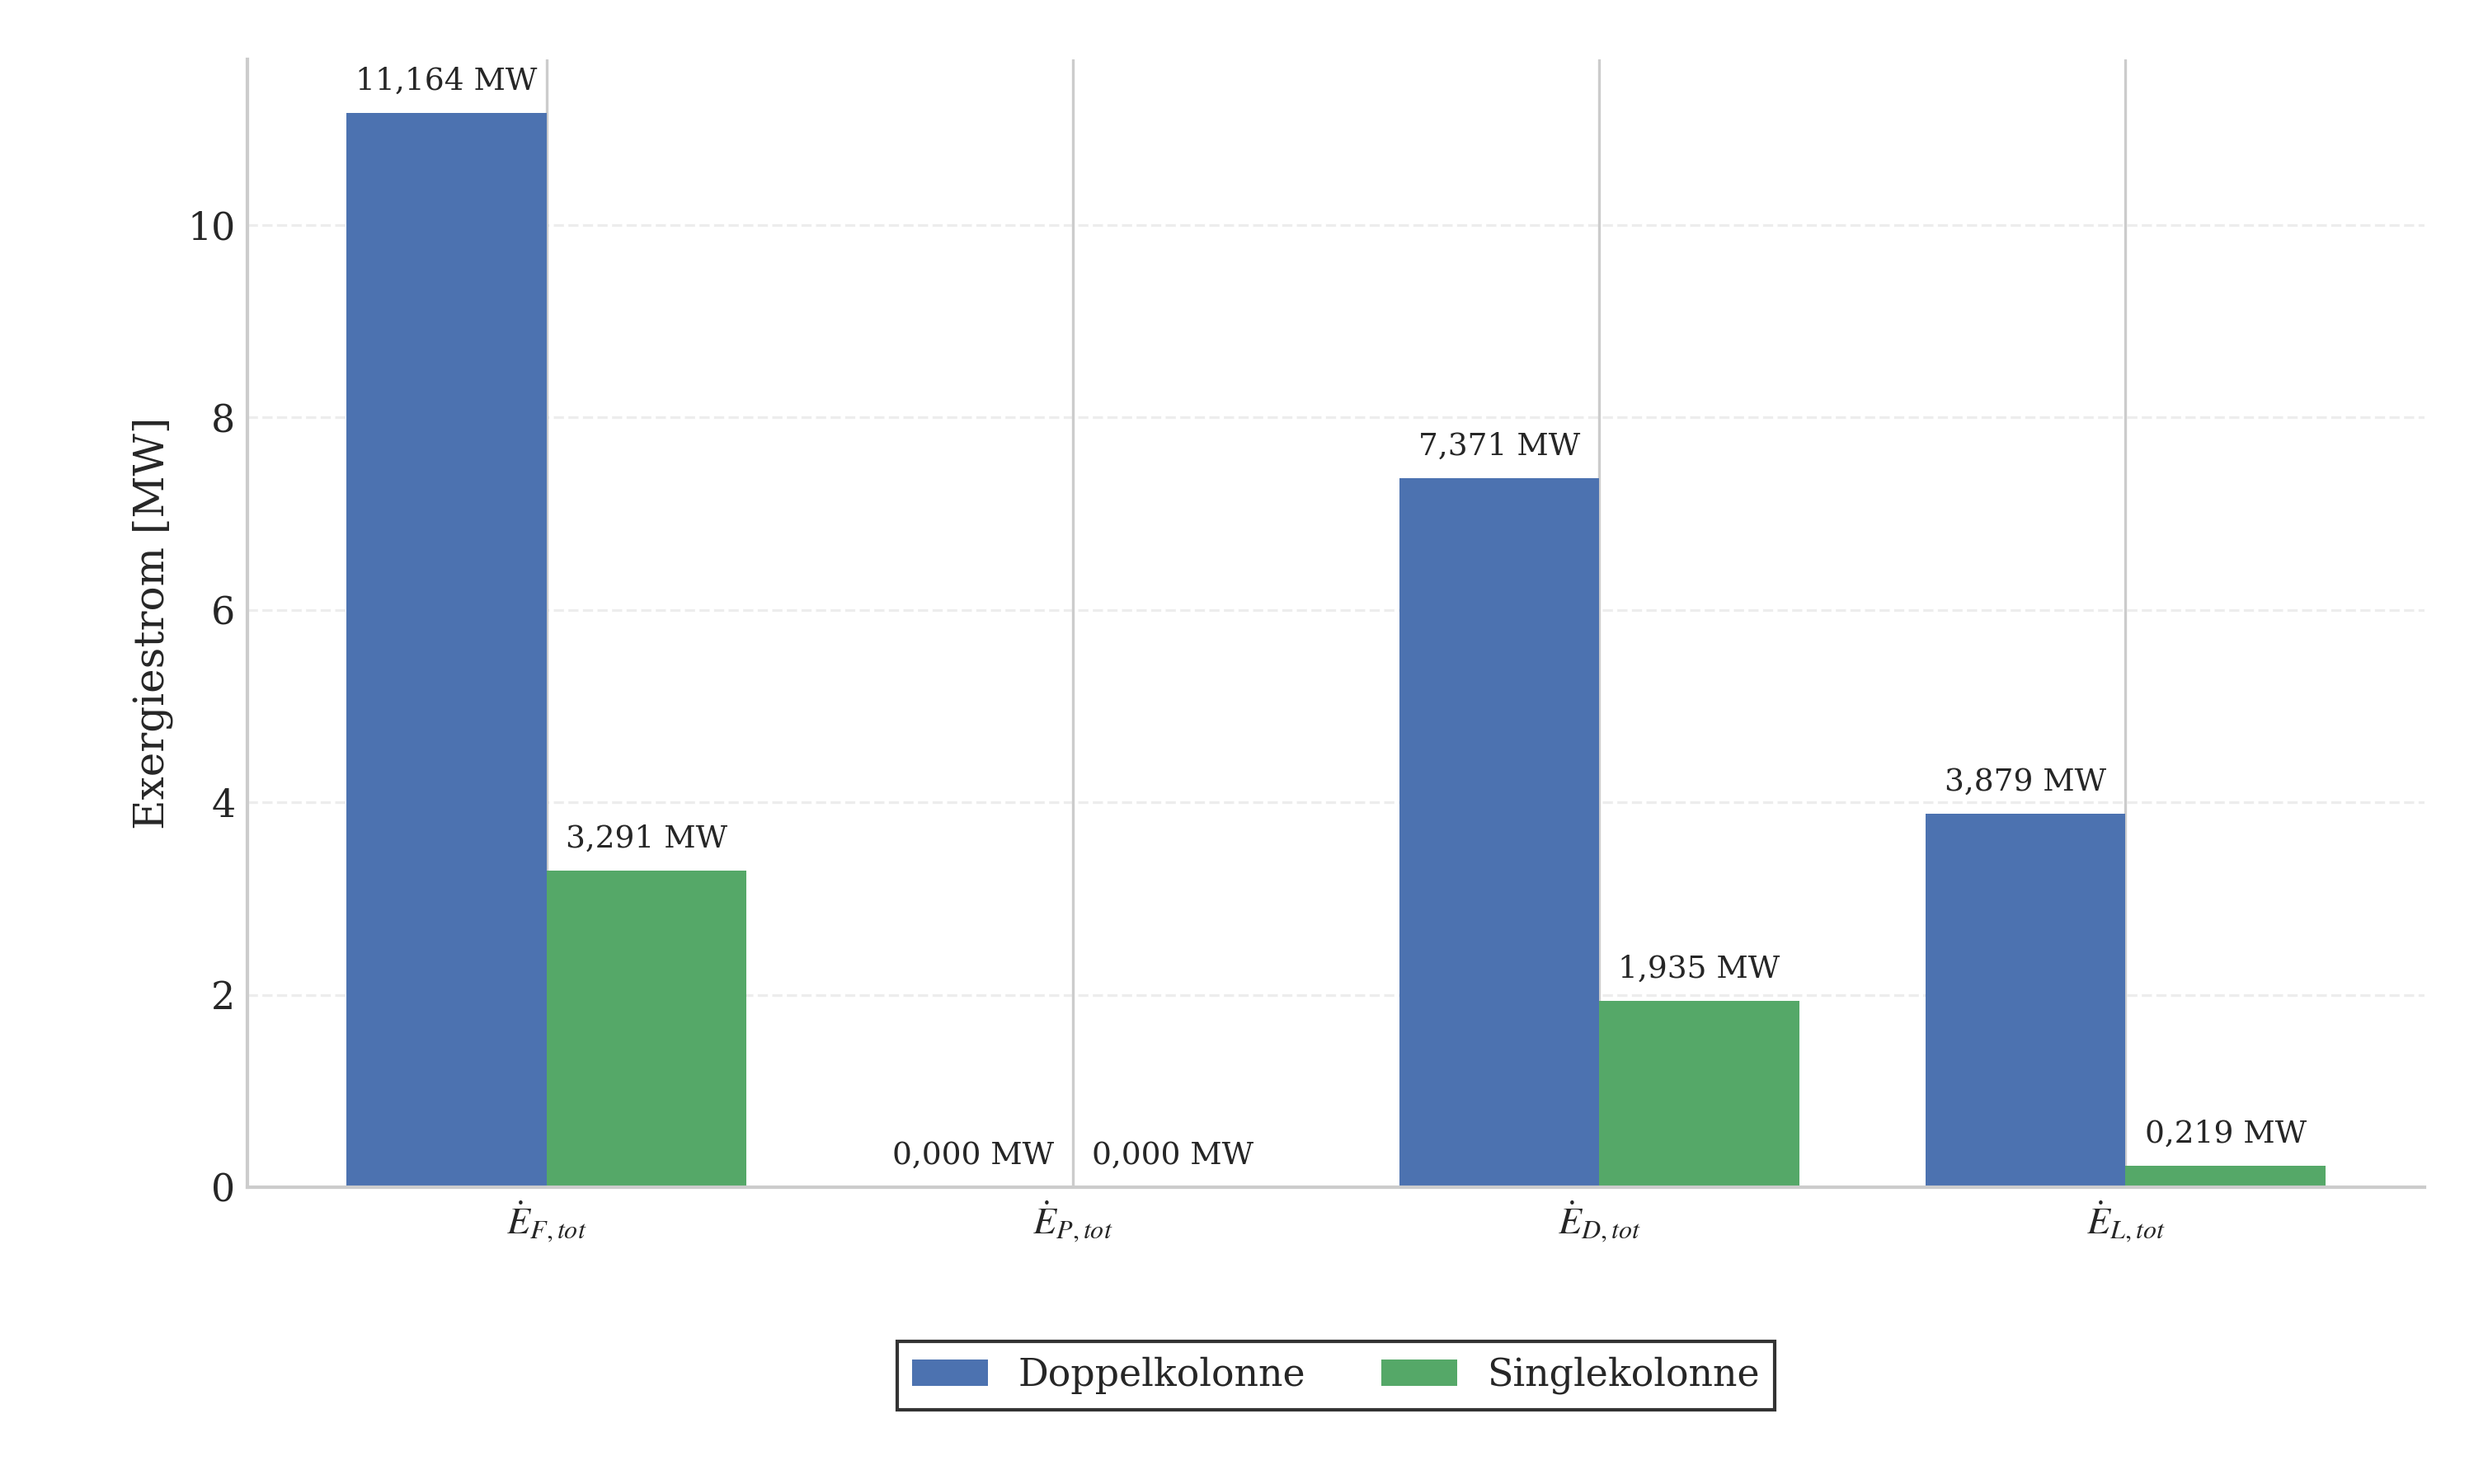
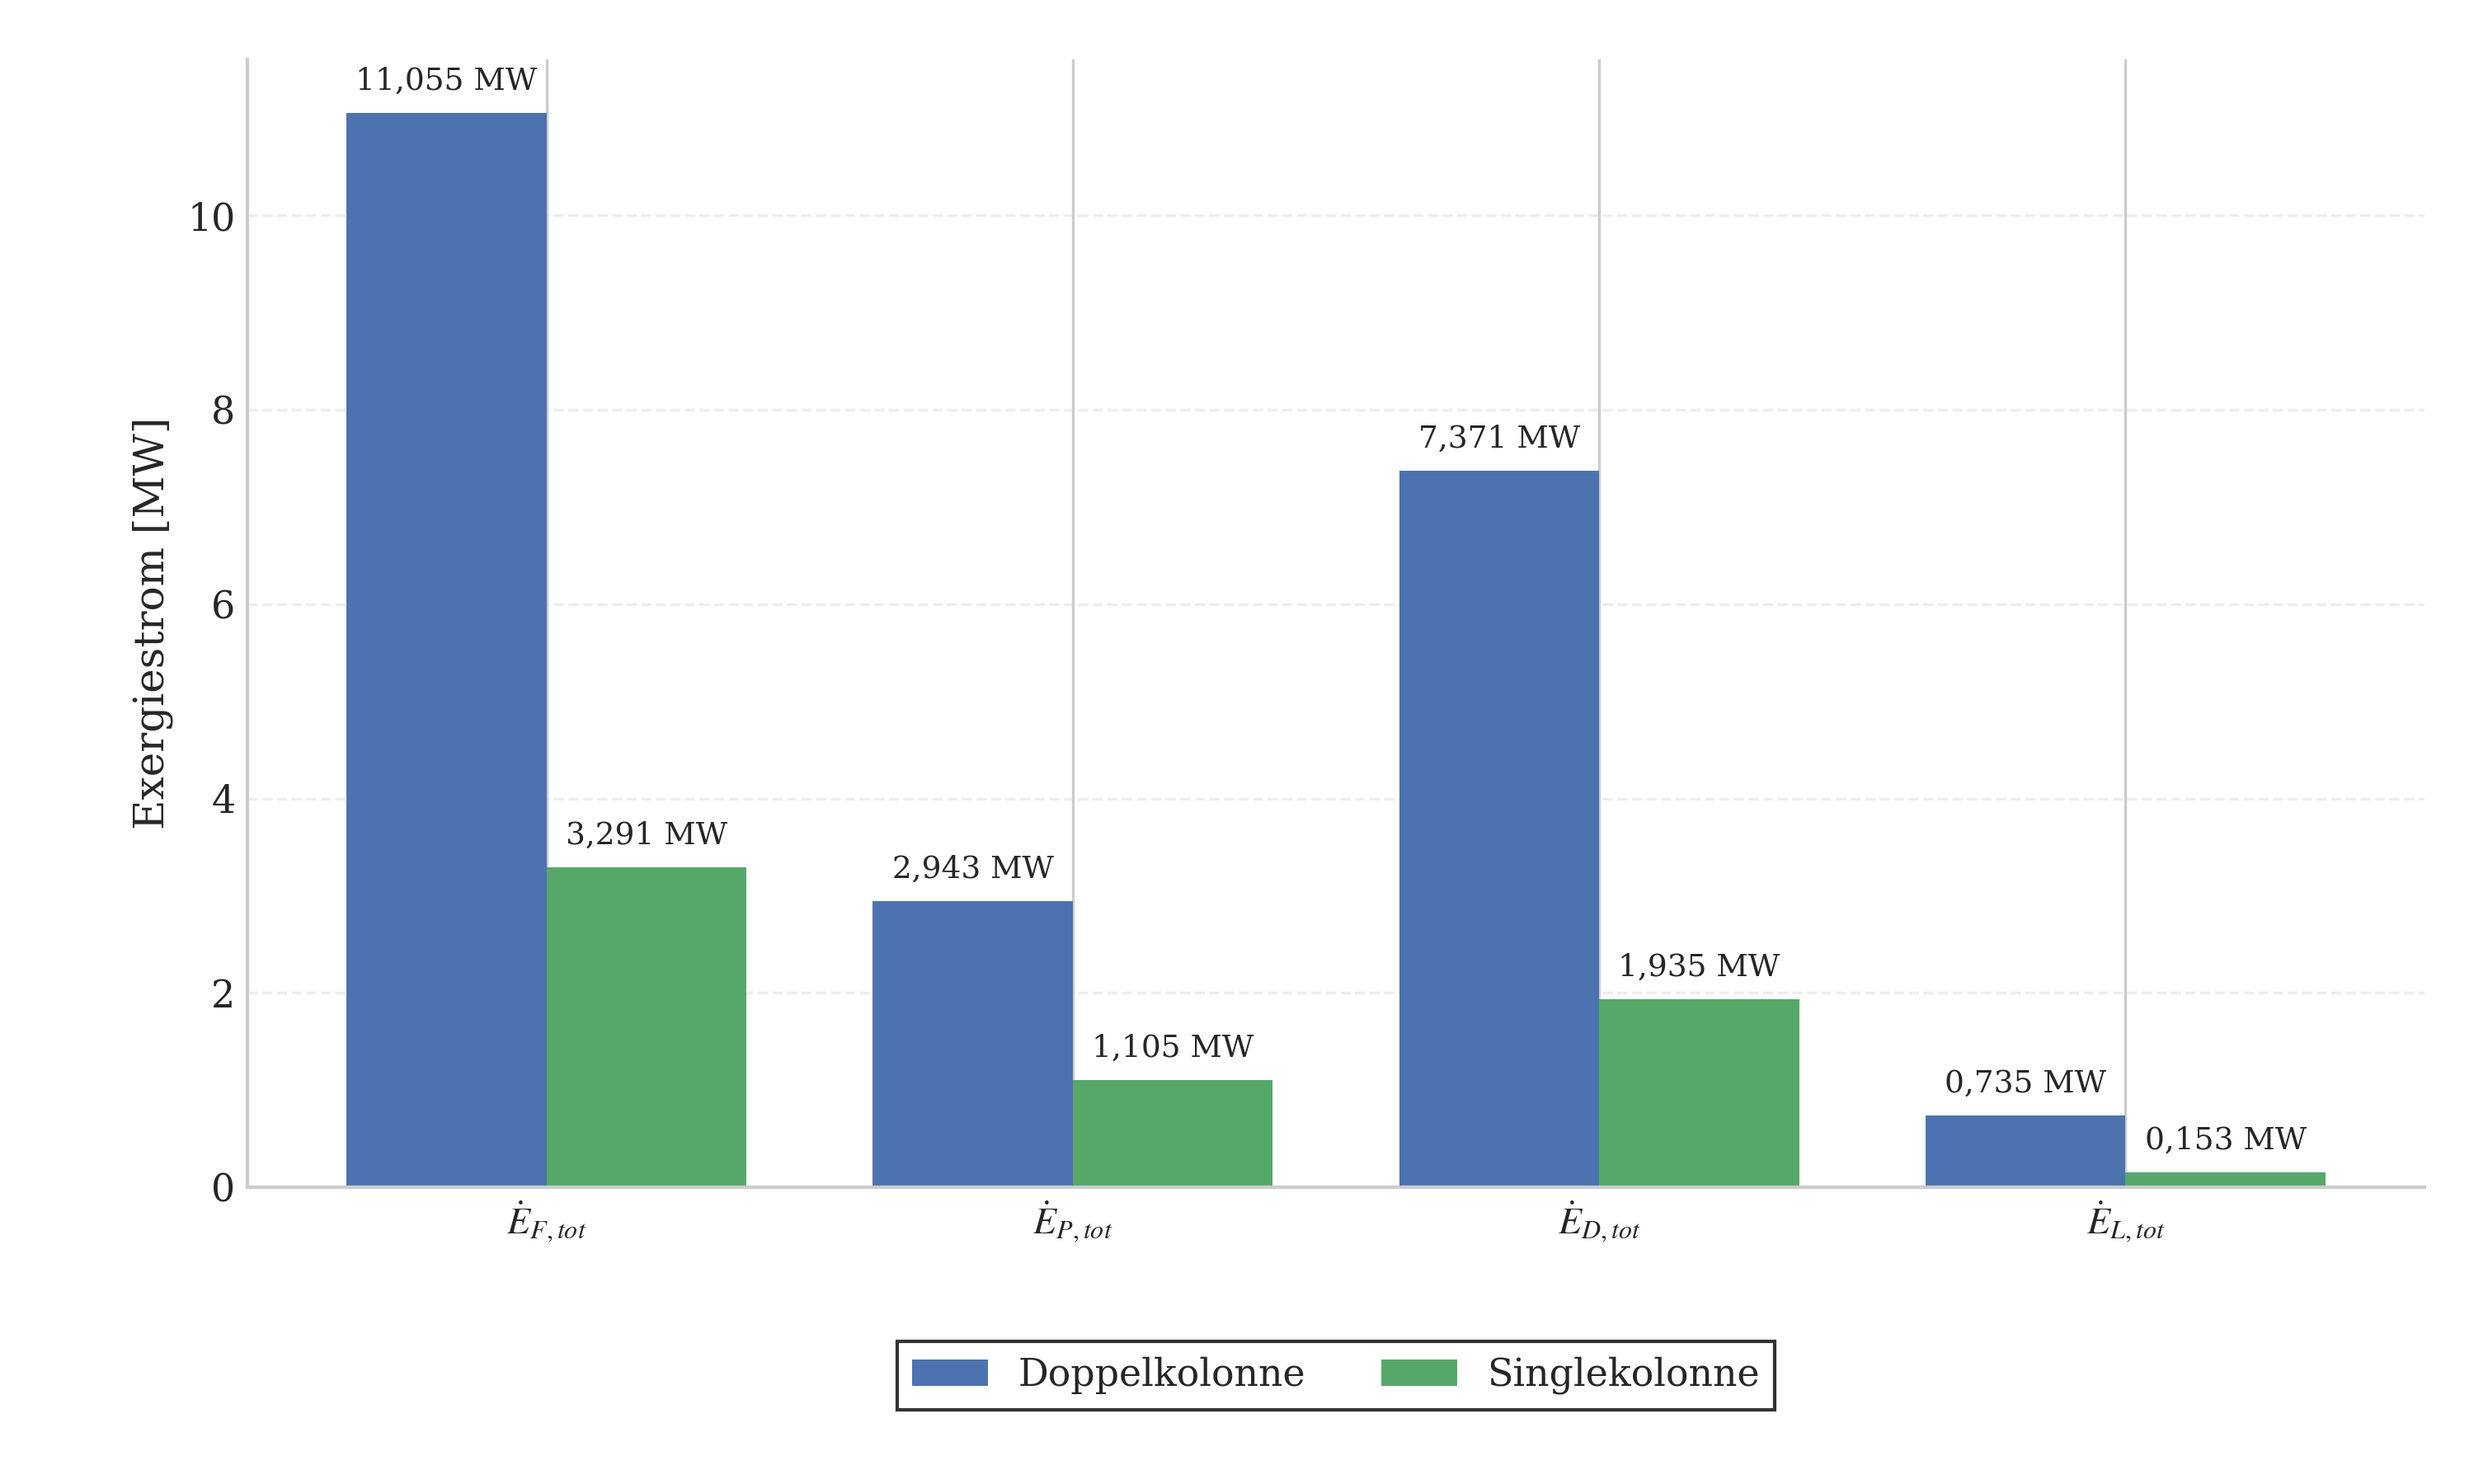
Fix aller Tabellen

diff --git a/Overleaf_LaTeX/tabellen/aspen_luftzerlegung_global_check.tex b/Overleaf_LaTeX/tabellen/aspen_luftzerlegung_global_check.tex
@@ -1,4 +1,4 @@
-% parsed_raw: {'E_s1': 186236.0, 'E_comp': 10978085.0, 'E_prod': 5265146.0983, 'W_turb': None, 'E_dest': 7371410.279999999, 'E_loss': 3879258.4941, 'E_in_sum': 16515814.872399999}
+% parsed_raw: {'E_s1': 186234.0, 'E_comp': 10868305.0, 'E_prod': 5265146.0983, 'W_turb': 106240.0, 'E_dest': 7371410.279999999, 'E_loss': 3879258.4941, 'E_in_sum': 16515814.872399999}
 % computed_from_tables: {'E_F': 16515814.872399999, 'E_P': 5265146.0983, 'E_D': 7371410.279999999, 'E_L': 3879258.4941, 'E_in_sum': 16515814.872399999, 'product_stream': 'S32'}
 \begin{longtable}{llr | llr}
 \caption{Exergetische Bilanz des Gesamtsystems der Doppelkolonne} \\
@@ -7,8 +7,8 @@
 \hline
 Posten & Symbol & Wert (W) & Posten & Symbol & Wert (W) \\
 \hline
-Feed-Strom 1 & $\dot{E}_{S1}$ & 186.236 & Produktstrom N$_2$ & $\dot{E}_{S32}$ & 5.265.146 \\
-Verdichterleistung & $\dot{W}_1 + \dot{W}_2$ & 10.978.085 & Turbinenleistung & $\dot{W}_3$ & - \\
+Feed-Strom 1 & $\dot{E}_{S1}$ & 186.234 & Produktstrom N$_2$ & $\dot{E}_{S32}$ & 5.265.146 \\
+Verdichterleistung & $\dot{W}_1 + \dot{W}_2$ & 10.868.305 & Turbinenleistung & $\dot{W}_3$ & 106.240 \\
  &  &  & Exergievernichtung & $\dot{E}_{D,tot}$ & 7.371.410 \\
  &  &  & Exergieverlust & $\dot{E}_{L,tot}$ & 3.879.258 \\
 \hline

diff --git a/Overleaf_LaTeX/tabellen/aspen_luftzerlegung_global_check_single.tex b/Overleaf_LaTeX/tabellen/aspen_luftzerlegung_global_check_single.tex
@@ -1,4 +1,4 @@
-% parsed_raw: {'E_s1': 55037.0, 'E_comp': 3235562.0, 'E_prod': 1532049.4965000001, 'W_turb': None, 'E_dest': 1935107.4900000002, 'E_loss': 218942.9926, 'E_in_sum': 3686099.9791}
+% parsed_raw: {'E_s1': 55053.0, 'E_comp': 3235562.0, 'E_prod': 1532049.4965000001, 'W_turb': 278933.0, 'E_dest': 1935107.4900000002, 'E_loss': 218942.9926, 'E_in_sum': 3686099.9791}
 % computed_from_tables: {'E_F': 3686099.9791, 'E_P': 1532049.4965000001, 'E_D': 1935107.4900000002, 'E_L': 218942.9926, 'E_in_sum': 3686099.9791, 'product_stream': 'S24'}
 \begin{longtable}{llr | llr}
 \caption{Exergetische Bilanz des Gesamtsystems der Einzelkolonne} \\
@@ -7,8 +7,8 @@
 \hline
 Posten & Symbol & Wert (W) & Posten & Symbol & Wert (W) \\
 \hline
-Feed-Strom 1 & $\dot{E}_{S1}$ & 55.037 & Produktstrom N$_2$ & $\dot{E}_{S24}$ & 1.532.049 \\
-Verdichterleistung & $\dot{W}_1 + \dot{W}_2$ & 3.235.562 & Turbinenleistung & $\dot{W}_3$ & - \\
+Feed-Strom 1 & $\dot{E}_{S1}$ & 55.053 & Produktstrom N$_2$ & $\dot{E}_{S24}$ & 1.532.049 \\
+Verdichterleistung & $\dot{W}_1 + \dot{W}_2$ & 3.235.562 & Turbinenleistung & $\dot{W}_3$ & 278.933 \\
  &  &  & Exergievernichtung & $\dot{E}_{D,tot}$ & 1.935.107 \\
  &  &  & Exergieverlust & $\dot{E}_{L,tot}$ & 218.943 \\
 \hline

diff --git a/tools/check_single_number_format.py b/tools/check_single_number_format.py
@@ -1,0 +1,29 @@
+import re
+p = 'Overleaf_LaTeX/tabellen/aspen_luftzerlegung_components_single.tex'
+with open(p, encoding='utf-8') as f:
+    lines = f.read().splitlines()
+rows = [l for l in lines if ' & ' in l and not l.strip().startswith('\\')]
+print(f'total rows: {len(rows)}')
+bad = []
+for i, r in enumerate(rows, 1):
+    parts = [s.strip() for s in r.rstrip('\\').split(' & ')]
+    if len(parts) < 8:
+        continue
+    eps, y, ystar = parts[5], parts[6], parts[7]
+    pat = re.compile(r'^-?$|^-?\d+,\d{4}$')
+    if not pat.match(eps):
+        bad.append((i, 'epsilon', eps))
+    if not pat.match(y):
+        bad.append((i, 'y', y))
+    if not pat.match(ystar):
+        bad.append((i, 'y*', ystar))
+
+if not bad:
+    print('All epsilon/y columns have correct 4-decimal format.')
+else:
+    print('Format issues found:')
+    for item in bad:
+        print(item)
+    print('\nRows:')
+    for i, r in enumerate(rows, 1):
+        print(f'{i}: {r}')

diff --git a/tools/verify_single_eps.py b/tools/verify_single_eps.py
@@ -1,0 +1,21 @@
+import re
+p = 'Overleaf_LaTeX/tabellen/aspen_luftzerlegung_components_single.tex'
+with open(p, encoding='utf-8') as f:
+    lines = f.read().splitlines()
+rows = [l for l in lines if ' & ' in l and not l.strip().startswith('\\')]
+for r in rows[2:]:
+    parts = [s.strip() for s in r.rstrip('\\').split(' & ')]
+    if len(parts) < 8:
+        continue
+    name = parts[0]
+    E_F_s = parts[2].replace('.', '').replace(',', '.')
+    E_P_s = parts[3].replace('.', '').replace(',', '.')
+    eps_s = parts[5].replace('.', '').replace(',', '.')
+    try:
+        E_F = float(E_F_s)
+        E_P = float(E_P_s)
+        eps = float(eps_s)
+        calc = E_P / E_F if E_F!=0 else None
+        print(name, 'E_F',E_F,'E_P',E_P,'eps_printed',eps,'eps_calc',calc)
+    except Exception as e:
+        print('skip', name, e)

diff --git a/tools/check_duplicates_single.py b/tools/check_duplicates_single.py
@@ -1,0 +1,15 @@
+from collections import Counter
+p = 'Overleaf_LaTeX/tabellen/aspen_luftzerlegung_components_single.tex'
+with open(p, encoding='utf-8') as f:
+    lines = f.read().splitlines()
+# component rows contain ' & ' and are not LaTeX control lines
+rows = [l for l in lines if ' & ' in l and not l.strip().startswith('\\')]
+names = [r.split(' & ')[0].strip() for r in rows]
+count = Counter(names)
+print('Duplicate component counts (only >1 shown):')
+for k, v in count.items():
+    if v > 1:
+        print(f'{k}: {v}')
+print('\nAll component rows:')
+for i, r in enumerate(rows, 1):
+    print(f'{i}: {r}')
